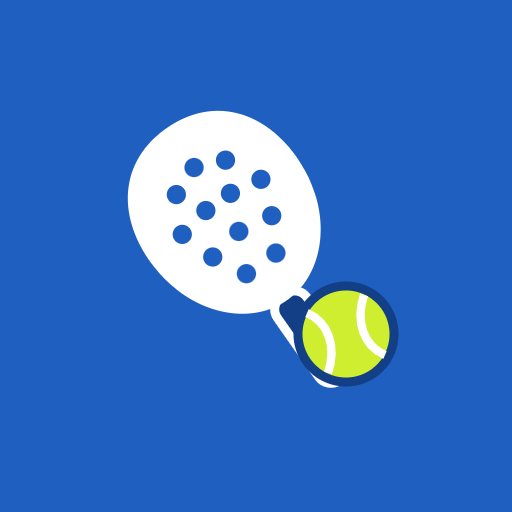
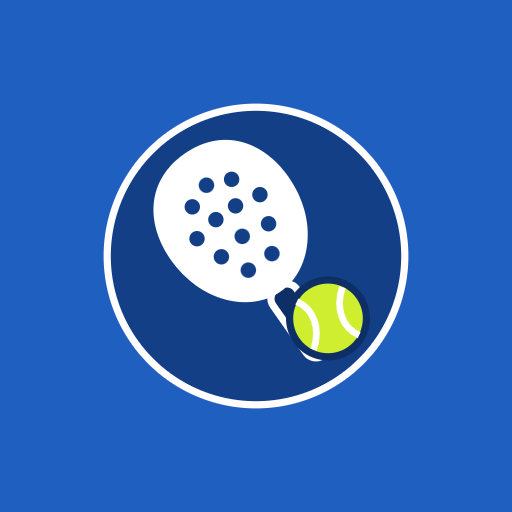
Add files via upload

Changed region(s): [[0.1875, 0.1875, 0.8125, 0.8125]]

diff --git a/index.html b/index.html
@@ -20,10 +20,11 @@ html,body{margin:0;height:100%;background:#e9f0f7}
 @media (prefers-color-scheme:dark){html,body{background:#08172b}}
 body{padding-top:env(safe-area-inset-top,0px);padding-bottom:env(safe-area-inset-bottom,0px);box-sizing:border-box}
 iframe{display:block;border:0;width:100%;height:100%}
-#splash{position:fixed;inset:0;z-index:5;background:#1f5fbf;display:flex;flex-direction:column;align-items:center;justify-content:center;gap:18px;color:#fff;font-family:Archivo,system-ui,sans-serif;transition:opacity .35s ease}
+#splash{position:fixed;inset:0;z-index:5;background:#1f5fbf;color:#fff;font-family:Archivo,system-ui,sans-serif;text-align:center;transition:opacity .35s ease}
 #splash.out{opacity:0;pointer-events:none}
-#splash .lg{width:132px;height:132px;filter:drop-shadow(0 8px 18px rgba(0,0,0,.25))}
-#splash h1{margin:0;font-weight:900;font-style:italic;font-stretch:118%;text-transform:uppercase;font-size:2.6rem;letter-spacing:-.01em;line-height:1}
+#splash .lg{position:absolute;left:50%;top:50%;width:144px;height:144px;transform:translate(-50%,-50%)}
+#splash .tx{position:absolute;left:0;right:0;top:calc(50% + 96px)}
+#splash h1{margin:0 0 12px;font-weight:900;font-style:italic;font-stretch:118%;text-transform:uppercase;font-size:2.6rem;letter-spacing:-.01em;line-height:1}
 #splash h1 span{color:#cfee2f}
 #splash p{margin:0;font-size:.95rem;font-weight:600;opacity:.85;letter-spacing:.04em}
 </style>
@@ -43,7 +44,7 @@ iframe{display:block;border:0;width:100%;height:100%}
         </g>
         <circle cx="47" cy="45" r="8" fill="#cfee2f" stroke="#0d2f66" stroke-width="1.5"/>
         <path d="M40.5 41.5c3.5 1.5 5 5.5 3.5 10M53.5 48.5c-3.5-1.5-5-5.5-3.5-10" fill="none" stroke="#fff" stroke-width="1.4"/>
-      </svg><h1>Pádel <span>Urba</span></h1><p>Altos de Valdavia III</p></div>
+      </svg><div class="tx"><h1>Pádel <span>Urba</span></h1><p>Altos de Valdavia III</p></div></div>
 <iframe id="app" title="Pádel Urba" allow="clipboard-write"></iframe>
 <script>
 var APP="https://script.google.com/macros/s/AKfycbwMvd-lI5NOr4Jai7kXUjsiniY0q_V_3z_4JmoC4LFVOhPPKWWZOA-Wpg1747S-yGhrzg/exec";
